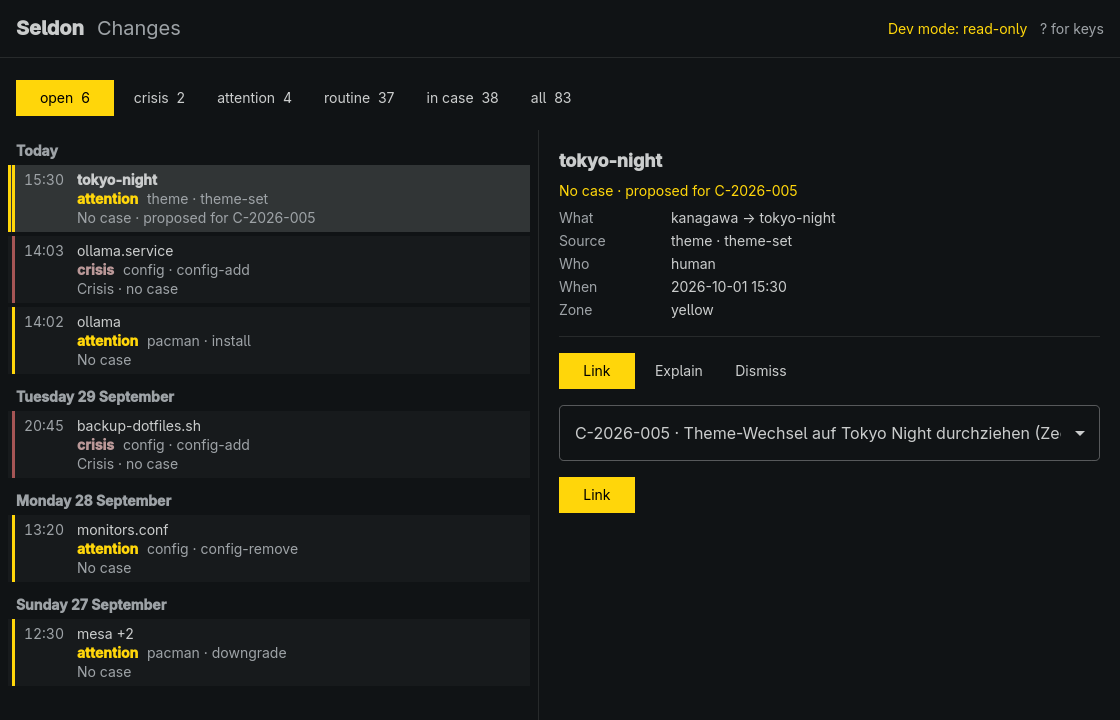
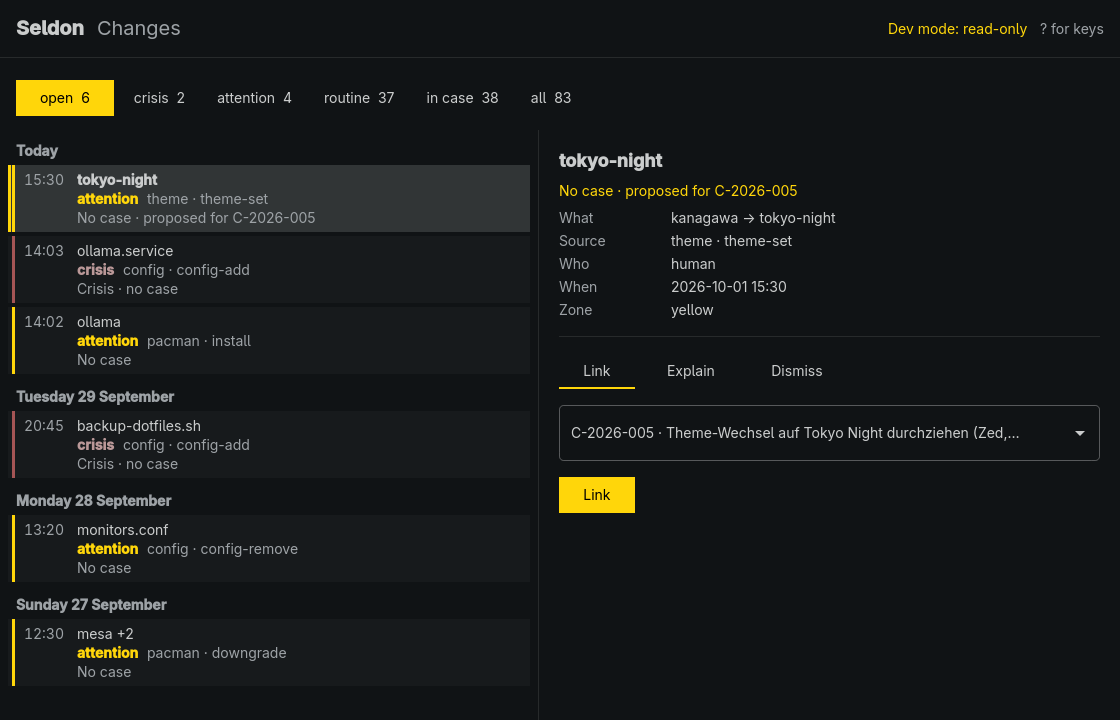
app: refresh the screenshot, README and handover for review round 1 (WP-228)

Changed region(s): [[0.5, 0.5806, 0.9375, 0.6111], [0.5, 0.4889, 0.625, 0.55], [0.6562, 0.4889, 0.7188, 0.5194]]

diff --git a/work/active/WP-228/HANDOVER.md b/work/active/WP-228/HANDOVER.md
@@ -21,7 +21,8 @@ Branch `wp/228-app-skeleton` (off `app`). Not pushed.
   accent, urgent = `red`/`color1`, muted = `muted`/`color8`/foreground) and
   Style's fills over the foreground — what `Tones.js` needs. The only colour
   literals are its fallbacks (`#FFD60A` accent, the shell's defaults for the
-  rest). Honours `XDG_STATE_HOME` (as Hype does).
+  rest). Reads `$HOME/.local/state/omarchy/current`, as `Commons/Color.qml`
+  and the template do, whatever `XDG_STATE_HOME` says (round 1, N5).
 - `translator.{h,cpp}`: the template, unchanged (one attribution line added).
 - `backend.{h,cpp}`: reads the index path it is given (the app: the state
   index, or `SELDON_INDEX`/`SELDON_NOW` read-only dev mode per CONTRACT.md
@@ -36,8 +37,10 @@ Branch `wp/228-app-skeleton` (off `app`). Not pushed.
   `--version`, `status`, `capture --all --json --quiet`, `drift
   show|link|explain|dismiss` in the CONTRACT.md forms; text one line after
   `--`); `openTerminal` starts only `omarchy-launch-floating-terminal-with-presentation`
-  with one script (the script comes from `Model.terminalArgv`, i.e. one of
-  Model.js's constants). Dev mode runs nothing but the version probe.
+  with one script, and refuses any script that is not in Model.js's
+  `TERMINAL_SCRIPTS` (evaluated once from the compiled-in `Model.js`), whatever
+  the caller passes. The version probe is killed after 10 s (engine missing).
+  Dev mode runs nothing but the version probe.
 - QML: `Main.qml` (mirrored root, header, `?` overlay, `Q` — asks while a
   typed text is unsent, Space — capture or the state's fix, Esc, ↑/↓/j/k,
   f/F, Enter; shortcuts off while typing), `StateCard.qml` (the four states
@@ -50,6 +53,8 @@ Branch `wp/228-app-skeleton` (off `app`). Not pushed.
   Explain, Dismiss, "only this event" for groups; every resolution armed by
   the first press and run by the second, disarmed by any form change,
   another selection or Esc), `HelpOverlay.qml`, `SeldonButton.qml`.
+  See "Review round 1" below for how arming, the pending call and selection
+  work now.
 - `Model.js` and `Tones.js` are compiled in from `plugin/` unchanged
   (`resources.qrc` aliases `../../plugin/…`), not copied.
 - `src/i18n/en.json` (empty: no plural strings yet) and `de.json` (every
@@ -58,13 +63,77 @@ Branch `wp/228-app-skeleton` (off `app`). Not pushed.
 - `docs/images/app-changes.png`: the fixture in dev mode, default accent,
   empty theme directory, from the test harness.
 
+## Review round 1 (SEND BACK) — what changed
+
+1. **B1, the armed case.** The picked case is kept by id (`caseId`), not by
+   its position in the picker. The first press saves the argv; a new index
+   or any form change that changes the argv disarms at once (`built`
+   watch), and the second press runs only an argv equal to the armed one,
+   else it disarms and says nothing ran. Tests: the reviewer's
+   `reviewCaseShiftsWhileArmed` (a case above the pick leaves; the form
+   stays armed and runs exactly `drift link … C-2026-004`) and
+   `armedCaseLeavingDisarms` (the picked case leaves; disarmed, nothing runs).
+2. **B2, `pending`.** The running argv is saved; the answer is matched to it
+   (and read with its own action), so changing the action cannot strand the
+   form. Another selection clears `pending`. The action tabs, the picker, the
+   text field and the check box are locked while a call runs. Test: the
+   reviewer's `reviewPendingSticks`, extended (lock, answer, selection).
+3. **B3, rich text.** Every `Label` of the window is `Text.PlainText`; the
+   picker has its own `contentItem` and an `ItemDelegate` with a plain,
+   eliding `Label`. Test `reviewRichText`: a case title with
+   `<font …><img …>` and an engine stderr with `<font …>` show as the
+   characters they are, and every text item of the window (the open popup's
+   included) except the window's own catalog words is plain.
+4. **B4, the stale strip.** The card's column is placed by `x`/`y` and its
+   implicit height instead of anchors that switch at runtime. Test
+   `reviewStaleLayout` asserts the fix button lies inside the card and both
+   lie above the Changes view.
+5. **N1, ADR-0051.** A readable newer index shows the quiet line "The engine
+   writes index vN; this window reads v2 — update Seldon." above the list
+   (`contractNotice`; the window's wording of CONTRACT.md rule 3's plugin
+   notice). Test `newerContractShowsTheNotice` (shows for v3 readable from
+   2, goes for v2).
+6. **N2, the terminal allow-list** in C++ (see backend above). Test
+   `terminalFixStartsTheLauncherOnly`: the list equals Model.js's; arbitrary
+   strings, a script with a suffix and a third argument are refused and
+   start nothing; `INIT_SCRIPT` starts the launcher.
+7. **N3.** `formChangesDisarm`: typing, another action tab (clicked), "only
+   this event" and another case each disarm an armed form.
+8. **N4, ask before discarding.** Selecting another change (j/k, ↑/↓,
+   click) while a typed reason is unsent asks first ("Your text is not sent
+   yet. Select another change again to drop it, Esc to keep it."); the second
+   try goes ahead, Esc or typing on keeps it. A chip change with a draft keeps
+   the change in the detail. Test `anotherChangeAsksBeforeDroppingText`.
+9. **N5, the theme path** (see theme above). Test `themeIgnoresXdgStateHome`.
+10. **N6/N7, the smaller points.** The version probe has a timeout (test
+    `aHangingEngineCountsAsMissing`); `status --json` is asked once from
+    whichever comes last, the probe's answer or the first read; the `.pro`
+    comment no longer claims newer API is kept out; the action tabs are
+    underlined tabs (no fill), so the checked "Link" tab no longer looks like
+    the filled "Link" button; the picker elides; Space in the picker is the
+    picker's, not a capture (tested in `formChangesDisarm`).
+
+Decisions taken from the orchestrator: the plain-rectangle buttons stay;
+the engine-install fix stays until the package exists.
+
+Mutants run on the new code (each reverted afterwards): no disarm on a
+reason change *and* no argv watch → `formChangesDisarm` fails; no plain
+text on the popup's item → `reviewRichText` fails; no argv watch →
+`armedCaseLeavingDisarms` fails; `pending` kept on another selection →
+`reviewPendingSticks` fails; no discard ask → its test fails; the old
+switching anchors → `reviewStaleLayout` fails (card 58+109, fix 452+48).
+Removing only `onReasonChanged: disarm()` survives: the argv watch disarms
+the same change (equivalent; both stay as two guards).
+
 ## How it was verified
 
 | Check | Where | Result |
 |---|---|---|
-| `app/bin/build`, clean rebuild, 0 compiler warnings (`-Wall -Wextra`) | headless (built on the dev host, Qt 6.12.0; no window opened) | passed |
-| `app/bin/test`: 34 Qt Test cases — theme (fallback, accent, palette, live switch, hyprctl rounding), translator (template cases), `de.json` covers every literal `qsTr`, index parse/size/contract/newer-contract, constants equal Model.js's (evaluated with `QJSEngine`), status precedence, argv allow/refuse list, watcher re-arm across two renames, engine missing, exit 3 → notInitialised and back, fixes run `capture`+`status`, dev mode runs nothing, terminal launcher only; window: fixture renders rows with no QML warning, each state with title and fix (en and de), Enter → Link armed → second Enter runs exactly `drift link <id> C-2026-005 --json`, Esc disarms an armed Explain, `?` overlay, `Q` asks with a draft and is a letter while typing | headless (offscreen, software scene graph), fake engine, temp dirs | passed |
-| `QT_FORCE_STDERR_LOGGING=1` offscreen runs of `app/build/seldon-desk`: fixture dev mode (en), no index and no engine on `PATH` (en), fixture dev mode with language `de` — private `HOME`, `XDG_RUNTIME_DIR`, `XDG_STATE_HOME` under `app/build/` | headless | no warning on stderr in any run |
+| `app/bin/build`, clean rebuild, 0 compiler warnings (`-Wall -Wextra`), round 1 | headless (built on the dev host, Qt 6.12.0; no window opened) | passed |
+| `app/bin/test`, round 1: 44 Qt Test cases, all passed — the 34 below plus `themeIgnoresXdgStateHome`, `aHangingEngineCountsAsMissing`, `reviewCaseShiftsWhileArmed`, `armedCaseLeavingDisarms`, `reviewPendingSticks`, `reviewRichText`, `reviewStaleLayout`, `formChangesDisarm`, `anotherChangeAsksBeforeDroppingText`, `newerContractShowsTheNotice` (the terminal test now checks the Model.js list) | headless (offscreen, software scene graph), fake engine, temp dirs | passed |
+| `app/bin/test`, round 0: 34 Qt Test cases — theme (fallback, accent, palette, live switch, hyprctl rounding), translator (template cases), `de.json` covers every literal `qsTr`, index parse/size/contract/newer-contract, constants equal Model.js's (evaluated with `QJSEngine`), status precedence, argv allow/refuse list, watcher re-arm across two renames, engine missing, exit 3 → notInitialised and back, fixes run `capture`+`status`, dev mode runs nothing, terminal launcher only; window: fixture renders rows with no QML warning, each state with title and fix (en and de), Enter → Link armed → second Enter runs exactly `drift link <id> C-2026-005 --json`, Esc disarms an armed Explain, `?` overlay, `Q` asks with a draft and is a letter while typing | headless (offscreen, software scene graph), fake engine, temp dirs | passed |
+| `QT_FORCE_STDERR_LOGGING=1` offscreen runs of `app/build/seldon-desk` (`env -i`, `PATH=/usr/bin`, which holds no `seldon`), round 1 again: fixture dev mode (en), no index and no engine (en), fixture dev mode with language `de` — private `HOME`, `XDG_RUNTIME_DIR` 0700, `XDG_STATE_HOME` under `app/build/`, removed afterwards | headless | no output on stderr in any run |
+| `docs/images/app-changes.png` refreshed (underlined tabs, eliding picker) | headless (fixture) | — |
 | No symlink under `app/`, no `qs.*` import, no hex colour in `app/src`, `app/bin`, the `.pro` outside `theme.cpp`'s fallbacks | fixture (grep, find) | passed |
 | Build and run against Qt 6.9 / 6.11 | not run | no older Qt on this host; WP-230's CI container build is the check. Nothing knowingly newer than 6.6 is used (`font.features`). |
 | The window on a real compositor (GPU scene graph, Material shader layers, Hyprland rounding, a live theme or language switch by hand) | not run | desktop red zone; covered only by the offscreen tests above |
@@ -88,8 +157,7 @@ the tests a fake engine).
 3. **Material's own button fill** is drawn through a shader layer the
    software renderer leaves out (offscreen tests, screenshots), so
    `SeldonButton.qml` fills buttons with a plain rectangle in theme colours
-   instead. Reviewer: say if Material's elevation look on GPU outweighs a
-   screenshot and offscreen tests that show what the user sees.
+   instead. Decided in round 1: this stays.
 4. **Model.js is evaluated four times** (Main, StateCard, ChangesView,
    ChangeDetail each import it; it is not a `.pragma library`) plus once in
    Tones.js. Rows import nothing. Measurable later; a library shim would
@@ -100,8 +168,15 @@ the tests a fake engine).
 6. **Engine missing → Install** reuses the plugin's GitHub installer
    script. Once the `seldon` package ships the app with the engine, this
    state means a broken install and its fix should change (WP-230/ADR-0056).
+   Decided in round 1: it stays until the package exists.
 7. **Exit 3 detection** asks `seldon status --json` once at start when no
    index exists (the plugin does it through its capture cycle). The app
    never captures by itself; Space does.
 8. `shell.toml` overrides of the shell's surfaces and fills are not read;
    the Theme follows `colors.toml` only.
+9. **The init/no-index race** (round 1, N6) is fixed by asking from both
+   sides, but no test forces the probe to finish before the first read; the
+   existing `findsTheEngineAndTheIndex` covers the usual order only.
+10. **The newer-index note has no action.** The plugin's notice runs
+    Omarchy's plugin update; the window's update path is the `seldon`
+    package (WP-230), so the note only says to update Seldon.

diff --git a/app/README.md b/app/README.md
@@ -47,7 +47,11 @@ Each state that keeps the changes from showing has one fix: the engine
 missing (Install, in Omarchy's terminal), no logbook (Create logbook, in
 Omarchy's terminal), no index (Build index: `seldon status`), a stale index
 (Capture now: `seldon capture`). An index of a contract the window cannot
-read says so and checks again.
+read says so and checks again; a newer one it can still read (ADR-0051)
+shows, with a quiet note to update Seldon.
+
+A typed reason is not lost by accident: Q, or selecting another change,
+asks first; the second try goes ahead, Esc stays.
 
 ## Storage and settings
 
